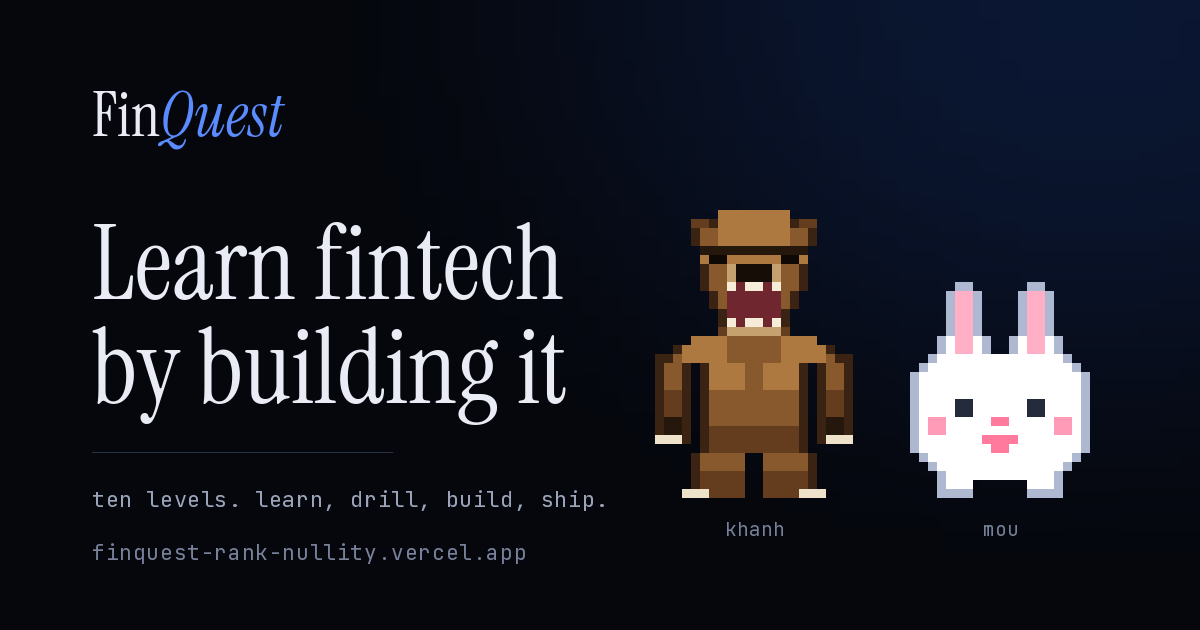
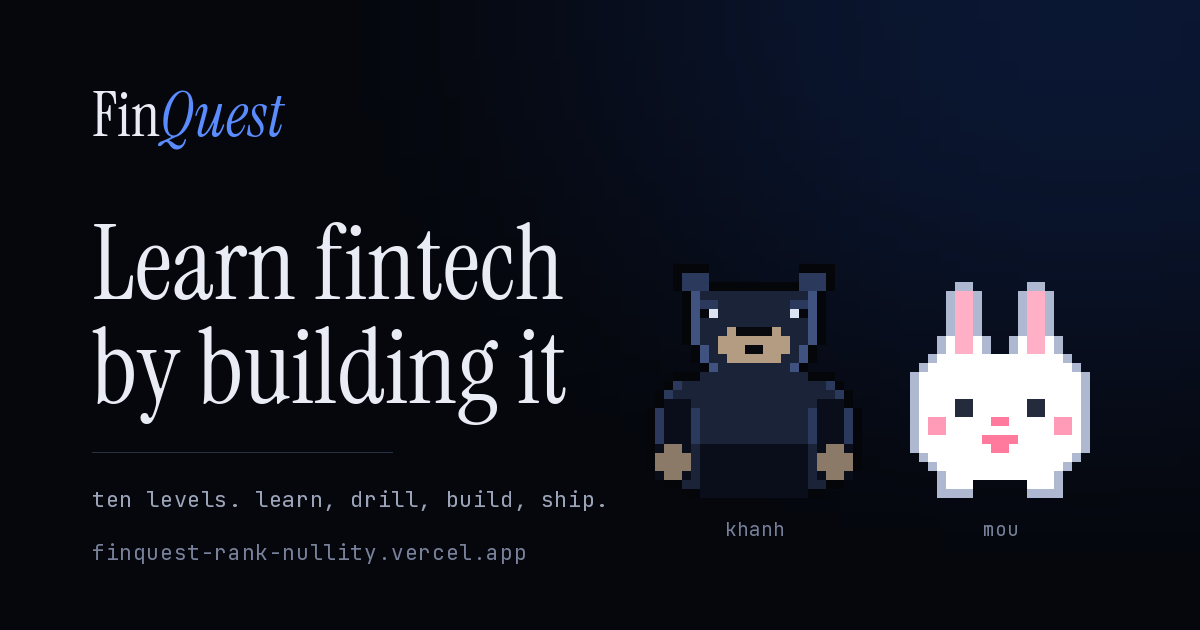
Sit Khanh down and make him a black bear
The roaring grizzly was the wrong animal for the page. He is a black
bear now, sitting, hands at his sides and the soles of his feet turned
towards you, which is the pose the reference has.

Painting him needed one decision: a black bear in true black is a hole
in a near black page. So he is painted the way illustrators paint them,
in dark blues, with a colder blue along his lit edge and the light in
his eyes drawn brighter than it would be on paper. The tan muzzle and
those two glints are the only things that carry at 24 pixels, and they
are enough.

He is 26 rows rather than 32, so he and Mou are close to the same height
again, and the whole silhouette is outlined by a pass over the shape
rather than by hand.

Changed region(s): [[0.5242, 0.3317, 0.7092, 0.8143]]

diff --git a/assets/js/ui/bear.js b/assets/js/ui/bear.js
@@ -1,96 +1,86 @@
 /* =========================================================================
-   Khanh: a standing grizzly, 24 pixels wide and 32 tall.
+   Khanh: a black bear sitting down, 24 pixels wide and 26 tall.
 
    Same technique as mou.js, one character per pixel, with two differences.
-   He is a full figure rather than a face, so he needs the height; and the
-   silhouette is outlined on every edge, which is what stops a pixel figure
-   reading as a stack of boxes.
+   He is a whole animal rather than a face, so he needs the extra height; and
+   every edge of the silhouette carries the outline, which is what stops a
+   pixel figure reading as a stack of boxes.
 
-   What makes him a grizzly rather than a bear cub: the shoulder hump is the
-   widest part of him, the head is narrow next to it, the jaw hangs open with
-   the teeth showing, and the arms hang clear of the body with the claws down.
-   Light falls from the upper left, so the hump and the top of the skull carry
-   the lit tone and everything below the ribs is in shadow.
+   A black bear is a problem on a near black page: painted in true black he is
+   a hole in the screen. So he is painted the way illustrators paint them, in
+   dark blues, with a colder blue along the lit edge. The two things that read
+   at this size are the tan muzzle and the light in his eyes, and both are
+   drawn brighter than they would be on paper.
 
-     .  nothing        f  fur           l  lit fur        d  shaded fur
-     o  outline        k  deep shadow   m  muzzle         n  nose
-     e  eye            w  tooth         t  inside the mouth
-     c  claw
+     .  nothing        f  fur           b  fur catching the light
+     o  outline        k  fur in shadow l  the blue rim down his left side
+     m  muzzle         n  nose          p  the sole of a foot
+     e  eye            w  the light in it
+     h  the heart that floats up when he looks at her
    ========================================================================= */
 import { html } from './lib.js';
 
 const W = 24;
-const H = 32;
+const H = 26;
 
 const PALETTE = {
-  k: '#26170C',
-  o: '#3A2312',
-  d: '#633D1E',
-  f: '#88592D',
-  l: '#AD7940',
-  m: '#C6A170',
-  n: '#160E06',
-  e: '#0E0904',
-  w: '#F6ECD8',
-  t: '#70262F',
-  c: '#EEE3CA',
+  o: '#04060A',
+  k: '#0A0E1A',
+  f: '#1A2338',
+  b: '#2B3A5C',
+  l: '#3F5280',
+  m: '#B49C82',
+  p: '#8B7A67',
+  n: '#07090F',
+  e: '#05070C',
+  w: '#DCE4F4',
   h: '#FF6B8A'
 };
 
 const FRAME = [
-  '........llllllll........',  // 0  skull
-  '.....ddollllllllodd.....',  // 1  ears, on the sides of the head
-  '.....offllllllllffo.....',  // 2
-  '.....offllllllllffo.....',  // 3
-  '......kkkkkkkkkkkk......',  // 4  brow ridge
-  '......leelllllleel......',  // 5  eyes under it
-  '......offmnnnnmffo......',  // 6  muzzle and nose
-  '......offmnnnnmffo......',  // 7
-  '......offwtwwtwffo......',  // 8  the jaw opens, upper teeth
-  '.......ofttttttfo.......',  // 9
-  '.......ofttttttfo.......',  // 10
-  '........otttttto........',  // 11
-  '........owtwwtwo........',  // 12 lower teeth
-  '........dmmmmmmd........',  // 13 chin and throat
-  '.....llllffffffllll.....',  // 14 shoulders
-  '...olllllfffffflllllo...',  // 15
-  '.ooflllllfffffflllllfoo.',  // 16 the hump, widest part of him
-  '.offo.ollllffllllo.offo.',  // 17 arms hang clear of the chest
-  '.offo.ollllffllllo.offo.',  // 18
-  '.offo.ollllffllllo.offo.',  // 19
-  '.oddo.offffffffffo.oddo.',  // 20
-  '.oddo.offffffffffo.oddo.',  // 21
-  '.oddo.offffffffffo.oddo.',  // 22
-  '.okko.offffffffffo.okko.',  // 23 forearms in shadow
-  '.okko.oddddddddddo.okko.',  // 24
-  '.ccco.oddddddddddo.occc.',  // 25 claws
-  '......oddddddddddo......',  // 26 hips
-  '.....offfff..fffffo.....',  // 27 legs, planted apart
-  '.....offfff..fffffo.....',  // 28
-  '.....oddddd..dddddo.....',  // 29
-  '.....oddddd..dddddo.....',  // 30
-  '....cccdddd..ddddccc....'   // 31 feet
+  '...oooo..........oooo...',  // 0  ears, round, on the corners
+  '...obbb..........bbbo...',  // 1
+  '...obbboooooooooobbbo...',  // 2
+  '....olfffffffffffflo....',  // 3  head
+  '....olbbffffffffbblo....',  // 4
+  '....olewffffffffwelo....',  // 5  eyes: the glint is most of it
+  '....olfffffffffffflo....',  // 6
+  '....olfffmnnnnmffflo....',  // 7  nose across the top of the muzzle
+  '....olffmmmmmmmmfflo....',  // 8
+  '.....olfmmmnnmmmflo.....',  // 9  mouth
+  '.....olffmmmmmmfflo.....',  // 10
+  '......olfffffffflo......',  // 11 what passes for a neck
+  '...oooffffffffffffooo...',  // 12 shoulders
+  '..obffffffffffffffffbo..',  // 13
+  '.obffffffffffffffffffbo.',  // 14
+  '.okkkffffffffffffffkkko.',  // 15 front legs down the sides
+  'obkkkbffffffffffffbkkkbo',  // 16 widest, sitting
+  'obkkkbffffffffffffbkkkbo',  // 17
+  'obkkkbffffffffffffbkkkbo',  // 18
+  'obkkkbffffffffffffbkkkbo',  // 19
+  'okppkfkkkkkkkkkkkkfkppko',  // 20 soles turned towards you
+  'oppppfkkkkkkkkkkkkfppppo',  // 21
+  'oppppfkkkkkkkkkkkkfppppo',  // 22
+  '.kppkfkkkkkkkkkkkkfkppk.',  // 23
+  '..ooffkkkkkkkkkkkkffoo..',  // 24
+  '....ookkkkkkkkkkkkoo....'   // 25
 ];
 
 const MOODS = {
-  /* Mid roar, which is the pose he stands in. */
+  /* Sitting, looking straight out. */
   idle: {},
 
-  /* Eyes shut: the brow drops onto them, so they merge into the ridge above.
-     One row is all there is at this size, and merging reads as closing. */
+  /* Eyes shut for a moment: the glint goes and the fur closes over it. One
+     row is all there is at this size, and losing the light reads as closing. */
   blink: {
-    5: '......lkkllllllkkl......'
+    5: '....olbbffffffffbblo....'
   },
 
-  /* The one moment he is not roaring. The jaw shuts, the teeth go away and
-     the muzzle settles into a closed mouth line: he is looking at her. */
+  /* The one moment he turns to her: eyes shut, mouth wider. He is a calm
+     animal, so the tell is small on purpose. */
   love: {
-    8: '......offmmmmmmffo......',
-    9: '.......ofmnnnnmfo.......',
-    10: '.......ofmmmmmmfo.......',
-    11: '........offffffo........',
-    12: '........offffffo........',
-    13: '........dffffffd........'
+    5: '....olbbffffffffbblo....',
+    9: '.....olfmmnnnnmmflo.....'
   }
 };
 
@@ -120,9 +110,9 @@ function rects(rows) {
   return out;
 }
 
-/* `size` is his width. He is taller than he is wide, and taller than Mou, so
-   the height follows from the grid rather than from the caller: square pixels
-   on both sprites are what makes them belong to the same world. */
+/* `size` is his width. He is a little taller than he is wide, so the height
+   follows from the grid rather than from the caller: square pixels on both
+   sprites are what makes them belong to the same world. */
 export function Bear({ mood = 'idle', size = 40, title = 'Khanh', bob = false }) {
   return html`
     <svg class=${'mou bear' + (bob ? ' is-bobbing' : '')}

diff --git a/assets/css/app.css b/assets/css/app.css
@@ -978,10 +978,8 @@ body.is-gate::before { display: none; }
 }
 @media (prefers-reduced-motion: reduce) { .mou.is-bobbing { animation: none; } }
 
-/* The pair. Khanh is a standing figure and Mou is a head, so they share a
-   ground line rather than a centre line, and the heart rises between them.
-   He is half again as tall as her, which is roughly right for a grizzly and
-   a rabbit. */
+/* The pair. Khanh is a whole animal and Mou is a head, so they share a ground
+   line rather than a centre line, and the heart rises between them. */
 .duo { display: flex; align-items: flex-end; gap: 6px; }
 .duo .mou.is-bobbing { animation-delay: .9s; }
 

diff --git a/README.md b/README.md
@@ -89,9 +89,9 @@ questions across the course, each one worked on the same figures the level teach
 ## Mou and Khanh
 
 Mou is the tutor: a 24 by 24 pixel rabbit who sits behind the **mou** button, or
-<kbd>Ctrl</kbd>+<kbd>K</kbd>, and knows which level you are on. Khanh is the grizzly standing beside
-her on the front page, 24 pixels wide and 32 tall, mid roar, and fond of her in a way he is not
-subtle about. Both are drawn as text, one character per pixel, in
+<kbd>Ctrl</kbd>+<kbd>K</kbd>, and knows which level you are on. Khanh is the black bear sitting
+beside her on the front page, 24 pixels wide and 26 tall, painted in dark blues because a black bear
+in true black is a hole in a dark page. Both are drawn as text, one character per pixel, in
 [`assets/js/ui/mou.js`](assets/js/ui/mou.js) and [`bear.js`](assets/js/ui/bear.js), so a mood can be
 edited by eye:
 
